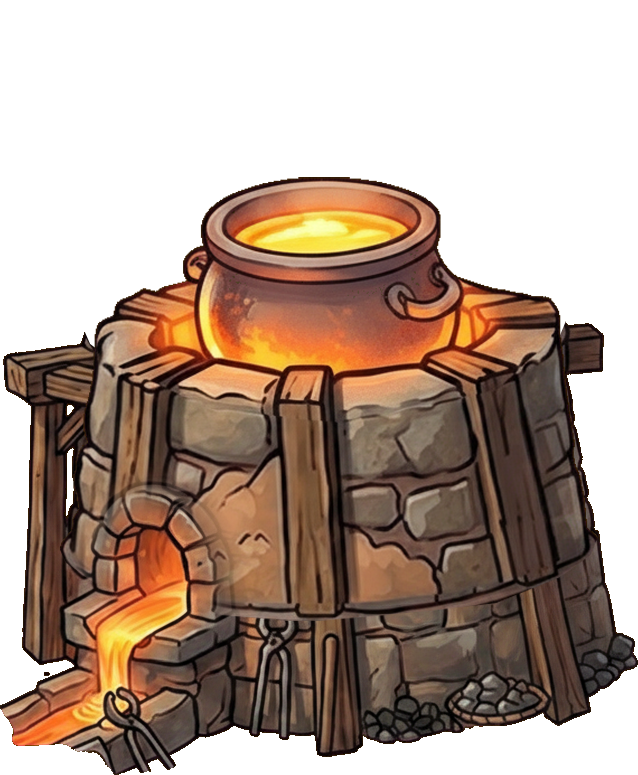
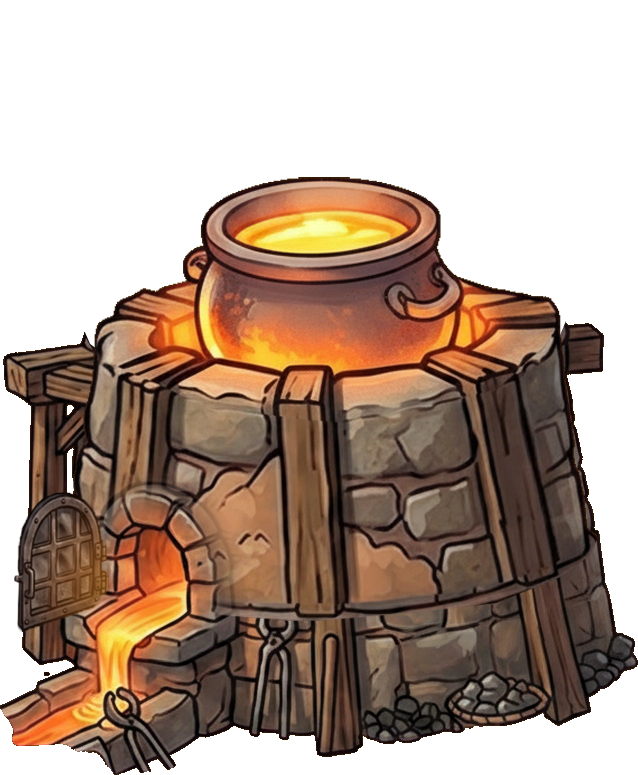
R34: the smelter's lit states (crown and gate layers over the new furnace)
The new anchor_furnace is the lit furnace; three layers on its canvas lie
over it. Off until the first pump of the bellows, the crown fades out on
the first pump, the gate glows on a trait, all clear when the gate is
tapped, off again with the metal on the anvil. The old heat glow on the
gate is no longer driven. FTUE test 830 -> 844.

Changed region(s): [[0.0, 0.6194, 0.1787, 0.8361]]

diff --git a/Swordforge_looptest_landscape.html b/Swordforge_looptest_landscape.html
@@ -294,6 +294,8 @@ body { font-family: Arial, sans-serif; background: #2b2b2b; min-height: 100vh; d
 /* station image sizes (arranged per reference) */
 .mortar { width: 100%; }                 /* fills its %-sized station wrapper (size set by LAYOUT) */
 .furnace { width: 100%; display: block; }/* smelter fills its station; new anchor-cut smelter (crossed A-frame bracing, centre-left arch, flared rim) is already anchor-oriented — no flip */
+.station img.furnace-ov { position: absolute; left: 0; top: 0; width: 100%; z-index: 1; filter: none; }   /* R34: on the furnace's own canvas, 1:1; no shadow of their own */
+#fo-gateOn { opacity: 0; }
 #frame.landscape #stSmelt { z-index: 3; }   /* r12: furnace+bellows above the wheel (stMortar) so the bellows ring handle at the back-right isn't occluded (Opus audit fix) */
 /* r24: the separate .cauldron overlay (assets/forge/anchor_cauldron.png) was removed from the scene.
    It had been display:none since r10, when the molten pot was baked into the re-cut anchor_furnace.png,
@@ -2338,7 +2340,7 @@ body { font-family: Arial, sans-serif; background: #2b2b2b; min-height: 100vh; d
         <div class="station" id="stSmelt">
             <span class="badge" style="left:auto; right:-9px;">3</span>
             <div id="ladle"><img id="ladleBase" src="assets/forge/ladle_base.webp" alt=""><img id="ladleHead" src="assets/forge/ladle_head.webp" alt="Ladle"></div><!-- s4: tier alignment -->
-            <img class="furnace" src="assets/forge/anchor_furnace.webp" alt="Smelter">
+            <img class="furnace" src="assets/forge/anchor_furnace.webp" alt="Smelter"><img class="furnace-ov" id="fo-top" src="assets/forge/anchor_furnace_top_off.webp" alt=""><img class="furnace-ov" id="fo-gateOff" src="assets/forge/anchor_furnace_gate_off.webp" alt=""><img class="furnace-ov" id="fo-gateOn" src="assets/forge/anchor_furnace_gate_on.webp" alt=""><!-- R34: the lit states -->
             <img id="furnaceSmoke" src="assets/forge/smoke.webp" alt=""><!-- r38: vents from the crucible, only while bellowing -->
             <div class="furnaceGlow" id="furnaceGlow"></div>
             <img class="bellowtop" id="bellowtop" src="assets/forge/anchor_bellows.webp" alt="Bellows">
@@ -6086,7 +6088,7 @@ function hidePreviewPaths(){ previewEl.style.display='none'; previewSolidEl.styl
 function drawPrepPreview(){ if(!prep){ hidePreviewPaths(); if(segs.length) moveX(); else xmark.style.display='none'; return; } drawSegmentPreview(prep.ore, 0.5+0.5*prep.grind); }
 
 // --- orb visuals + placement (the #orb element shows the prep ore OR the extracted hot melt) ---
-function updateGauges(){ updateHpPill(); const h=melt?melt.heat:0; const gh=document.getElementById('g-heat'); if(gh) gh.style.width=h+'%'; const fg=document.getElementById('furnaceGlow'); if(fg) fg.style.opacity=(h/100*0.9).toFixed(2); }   // furnace mouth glows brighter as it heats (bellows feedback)
+function updateGauges(){ updateHpPill(); const h=melt?melt.heat:0; const gh=document.getElementById('g-heat'); if(gh) gh.style.width=h+'%'; }   // R34: #furnaceGlow is no longer driven - the furnace art's own lit states show the heat (furnaceArtSync)
 function updateOrbLook(){ if(prep){ orbEl.classList.remove('hot'); oreImgEl.style.opacity=1-prep.grind; sphereEl.style.opacity=prep.grind; } else if(melt&&(melt.stage==='hot'||(melt.stage==='onAnvil' && melt.heat>0))){ orbEl.classList.add('hot'); oreImgEl.style.opacity=0; sphereEl.style.opacity=1; } else if(melt&&melt.stage==='onAnvil'){ orbEl.classList.remove('hot'); oreImgEl.style.opacity=0; sphereEl.style.opacity=1; } }   /* r261 (owner): quenched (no heat) on the anvil = the grey cold sphere */
 function placeOrb(cx,cy){ orbEl.style.left=(cx-orbEl.offsetWidth/2)+'px'; orbEl.style.top=(cy-orbEl.offsetHeight/2)+'px'; }
 function orbCenter(){ const r=orbEl.getBoundingClientRect(), b=benchEl().getBoundingClientRect(); return {x:r.left+r.width/2-b.left, y:r.top+r.height/2-b.top}; }
@@ -6106,7 +6108,7 @@ function overTarget(c,name){
 function canAddOre(){ return !prep && (!melt || melt.stage==='smelting'); }
 
 // --- stage transitions ---
-function ensureMelt(){ const gate=document.getElementById('furnaceGate'); if(!melt){ melt={heat:BASE_HEAT,hp:BLADE_HP_MAX,smeltT0:performance.now(),stage:'smelting',reachedTrait:null,alignDist:null,acquiredTrait:null,tier:null,traits:[]}; gateReady=false; gate.classList.remove('ready'); } else if(melt.stage!=='smelting'){ melt.stage='smelting'; melt.smeltT0=performance.now(); gateReady=false; gate.classList.remove('ready'); } updateGauges(); }
+function ensureMelt(){ const gate=document.getElementById('furnaceGate'); if(!melt){ melt={heat:BASE_HEAT,hp:BLADE_HP_MAX,smeltT0:performance.now(),stage:'smelting',reachedTrait:null,alignDist:null,acquiredTrait:null,tier:null,traits:[]}; gateReady=false; gate.classList.remove('ready'); } else if(melt.stage!=='smelting'){ melt.stage='smelting'; melt.lit=false; melt.smeltT0=performance.now(); gateReady=false; gate.classList.remove('ready'); } updateGauges(); }
 /* r101: the ore leaves the shelf HERE, not at the smelter, so a shelf still counting it was just wrong.
    (r101 also had nothing put it back; since R21 dropping it on the inventory does, unprepOre.) */
 function startPrep(oreId){ if(!oreLeft(oreId)) return; if(ftueGrindBlock()) return;   /* r199 */ if(ftueFirstSpent(oreId)) return;   /* r201: capped, silently */
@@ -6170,6 +6172,17 @@ function addOreDirect(oreId){ if(!oreLeft(oreId)) return;
     if(ftueFirstCap(oreId)) return;   /* r199 */
     ensureMelt(); spendOre(oreId); addSegment(oreId,0); orbEl.style.display='none'; ftueCheckMix(); setTimeout(tutTc2RawCheck, 0);   /* r199. v3: TC2's raw ores */ if(ftueOreCap(oreId)!=null && INV_TAB===0) buildShelf();   /* r200: spendOre rebuilt it before this ore was in the smelter */
     if(String(_galeStage).indexOf('d2-gale')===0) setTimeout(tutGaleSmelted,0);   /* r125 */ hint('Melting… drag the <b>bellows</b> up and down to move the sword, and <b>tap the gate</b> on a trait. Add more ore to stack the route.'); }
+/* R34 (owner, 2026-10-29): the smelter's lit states. anchor_furnace is the lit furnace (the pour running); three layers on its
+   canvas lie over it: the crown cold (#fo-top), the gate cold (#fo-gateOff), the gate glowing (#fo-gateOn). Off with no metal,
+   in the smelter until the first pump, and with the metal on the anvil; the first pump fades the crown out over litMs; a trait
+   reached lights the gate (over the cold gate, so no fade shows the pour); the gate tapped (the metal out) clears all three */
+const FURNACE_ART={ litMs:1500, fadeMs:400 };
+function furnaceLook(m, ready){ if(!m || m.stage==='onAnvil') return { top:1, gateOff:1, gateOn:0 }; if(m.stage==='hot') return { top:0, gateOff:0, gateOn:0 }; if(ready) return { top:0, gateOff:1, gateOn:1 }; return { top:m.lit ? 0 : 1, gateOff:1, gateOn:0 }; }
+let FURNACE_KEY='';
+function furnaceArtSync(){ const l=furnaceLook(melt, gateReady), k=l.top+','+l.gateOff+','+l.gateOn; if(k===FURNACE_KEY) return; FURNACE_KEY=k;
+    ['top','gateOff','gateOn'].forEach(n=>{ const el=document.getElementById('fo-'+n); if(!el) return;
+        const ms=(n==='top' && !l.top && melt && melt.stage==='smelting') ? FURNACE_ART.litMs : FURNACE_ART.fadeMs;
+        el.style.transition='opacity '+ms+'ms ease-out'; el.style.opacity=l[n]; }); }
 function smGateSync(){ const on=!!(melt && melt.stage==='smelting' && melt.reachedTrait); if(on===gateReady) return;
     gateReady=on; const g=document.getElementById('furnaceGate'); if(g) g.classList.toggle('ready', on); }
 /* smelter version: the gate opens only on a trait; it takes the trait and releases the hot metal (tryAcquire) */
@@ -7756,7 +7769,7 @@ function tick(now){
         /* r83: the gate waits on HEAT, not on a timer. The bellows was the one station a player could
            skip entirely - the smelt used to ready itself after SMELT_TIME whether or not anyone pumped. */
         updateGauges(); }
-    smBladeTick(dt); smLadleTick(dt); smGlide(dt); smGateSync();   /* smelter version: s3 the bellows' travel glides out; the gate glows while the sword is on a trait */
+    smBladeTick(dt); smLadleTick(dt); smGlide(dt); smGateSync(); furnaceArtSync();   /* smelter version: s3 the bellows' travel glides out; the gate glows while the sword is on a trait */
     if(TUT_STAGE==='fire-reheat' && melt && melt.stage==='smelting' && SAY_ON!=='D71') tutFireReheated();   /* r111. R4: after D71 is read */
     if(TUT_STAGE==='fire-mang') tutFireGround();   /* r111. 2026-10-13: a full grind, either ore */
     if(melt && (melt.stage==='hot'||melt.stage==='onAnvil') && melt.heat>0){ melt.heat=Math.max(0, melt.heat-HEAT_DECAY*dt); updateGauges(); }   // heat (=speed) cools once the orb is out of the smelter
@@ -8045,7 +8058,7 @@ function wireBellowGate(){ const bh=document.getElementById('bellowHot'), gate=d
         const h=smHandle(SM_POS, (e.clientY-lastY)/scale()); lastY=e.clientY;
         if(h.moved<=0) return; SM_POS=h.pos; paint();
         if(!melt || melt.stage!=='smelting') return;
-        bellowing=true; if(smoke) smoke.classList.add('on');
+        bellowing=true; melt.lit=true; if(smoke) smoke.classList.add('on');   /* R34: the first pump lights the furnace */
         SM_OWED+=smTravelDt(h.moved);   /* s3: stored; smGlide moves the sword in the frame loop */
         if(idle) clearTimeout(idle); idle=setTimeout(quiet, 160); });   /* the smoke stops when the hand does */
     const end=e=>{ if(live!==e.pointerId) return; live=null; quiet(); SM_POS=0; paint(SMELT.springMs); };   /* s2: springs back closed; the spring moves nothing */

diff --git a/CLAUDE.md b/CLAUDE.md
@@ -43,7 +43,7 @@ Sword Forge is a 2D grid-based blacksmith crafting game. It is a **single, self-
   - `assets/backgrounds/` — scene panels, shop/forge backgrounds (`forge_bg.png` = quench scene; `sharpen_bg.png` = stone-floor scene for the sharpening step)
   - `assets/ui/` — buttons and UI chrome, **and standalone explainer art** (`weak/fine/epic.webp` for the Alignment for Tiers window, `MAP_parts.webp` for the five-parts window, `MAP_parts2.webp` for the basic-vs-elemental window (GC4))
   - `assets/Illustrations/` — full-window story art (`Bram_illustration.webp`; `intro_1_fall` to `intro_4_anvil.webp` = the intro's four pictures, `FTUE.intro`, r302)
-  - `assets/forge/` — forge props (bellow, bucket, pulley; `water_bucket.png` for the quench step; `Metal.png` = ore chunk flung into the bucket when a metal is spent; `grindstone.png` + `grindstone_spin.png` = still/motion frames for the sharpening step, both on the same 1701×1536 canvas so the motion frame overlays the still one 1:1). **Name trap:** `grindstone.*` is the **basement sharpening wheel**; the forge's ore grinding wheel ("the grindstone" in the FTUE, `#stMortar`) is `anchor_grindwheel.webp`. `ladle_base` + `ladle_head` = the smelter version's tier-alignment ladle (s4), placed to `assets/Anchor-images/ladle_placement.png`
+  - `assets/forge/` — forge props (bellow, bucket, pulley; `water_bucket.png` for the quench step; `Metal.png` = ore chunk flung into the bucket when a metal is spent; `grindstone.png` + `grindstone_spin.png` = still/motion frames for the sharpening step, both on the same 1701×1536 canvas so the motion frame overlays the still one 1:1). **Name trap:** `grindstone.*` is the **basement sharpening wheel**; the forge's ore grinding wheel ("the grindstone" in the FTUE, `#stMortar`) is `anchor_grindwheel.webp`. `anchor_furnace` = the lit smelter (the pour running), with `anchor_furnace_top_off` / `_gate_off` / `_gate_on` = its lit-state layers on the same 638x775 canvas (R34, `furnaceLook`). `ladle_base` + `ladle_head` = the smelter version's tier-alignment ladle (s4), placed to `assets/Anchor-images/ladle_placement.png`
   - `assets/sword-parts/blades|grips|guards|pommels/` — Design Desk part images (base `balanced_*` set + trait skins `flame_*`, `swift_*`, `gale_*`, `ice_*`, `water_*`). Each `.png` source has a `.webp` beside it that the game loads (512 wide, quality 0.86; converted in the browser and saved through the dev server's `/__save`, as `tooling/asset-diet/convert.html` does). `DD_ALIAS` maps a part id with no art yet onto an existing image; since r211 it is **empty** (all fire and gale parts landed). `DD_BONUS.balanced` (Garric's gift) holds grips 5-6, guards 5-6, pommels 5-6
   - `assets/Decor/` (capital D, and paths are case-sensitive on Pages) - decor art; `Banner.webp` is the shop banner (`FTUE.decor.banner.img`), cropped to its visible art
   - `assets/sword-parts/overlays/` — quality overlays layered over the forged sword (`crack.png` = Weak, `sparkle.png` = Epic)
@@ -58,7 +58,7 @@ Sword Forge is a 2D grid-based blacksmith crafting game. It is a **single, self-
 
 - **Screenshots work, but flakily.** The continuous ember/`requestAnimationFrame` loop can keep the page from going idle, and a capture fails outright while the app window is minimised or hidden. Retry once on timeout; if it fails twice, fall back to `read_page`/`javascript_tool` measurements rather than burning turns.
 - Verify with the Claude Preview tools via `.claude/launch.json` (`preview_start`, config name `sword-forge` → Node static server on port **5679** — `.claude/launch.json` is the source of truth; this line said 5678 until 2026-09-23). Exact tool names vary by environment; in the current one they are the `mcp__Claude_Browser__*` set: `javascript_tool` to drive functions directly and read `getBoundingClientRect`/computed styles/canvas pixels, `read_console_messages` for errors, `resize_window` for the viewport. Resize to mobile (375px) before measuring layout, since the headless viewport otherwise reports width 0.
-- **Eight test suites run here:** `node tooling/smelter/smelter.test.mjs` (the crafting loop against `specs/2026-10-21-smelter-version-loop.md`, reads `Swordforge_looptest_landscape.html`, GREEN at 71 checks), `node tooling/market/market.test.mjs` (FTUE v3 shared systems: the `MARKET` blueprints, shaped orders, Durable, against `specs/2026-10-07-ftue-v3-rework.md`, GREEN at 54 checks), `node tooling/map/map.test.mjs` (map trait icons open a trait card, `specs/2026-10-06-map-trait-links.md`, GREEN at 17 checks), `node tooling/skills/skills.test.mjs` (the `SKILLS` table and helpers against `specs/2026-10-06-skill-tree-trade-ore.md`, GREEN at 18 checks), `node tooling/hazard/hazard.test.mjs` (`HAZ` and the hazard rules against `specs/2026-10-01-hazard-integrity.md`, GREEN at 37 checks), and `node tooling/ftue/ftue.test.mjs` (the `FTUE` object against its design record, GREEN at 830 checks), `node tooling/hammer/hammer.test.mjs` (`HM_HITS` and the hit-point rules against their record, GREEN at 47 checks) and `node tooling/mobile-fit/fit.test.mjs` (GREEN at 21 cases). An `FTUE` or `HM_HITS` value changes in its design record and its test together, test first.
+- **Eight test suites run here:** `node tooling/smelter/smelter.test.mjs` (the crafting loop against `specs/2026-10-21-smelter-version-loop.md`, reads `Swordforge_looptest_landscape.html`, GREEN at 71 checks), `node tooling/market/market.test.mjs` (FTUE v3 shared systems: the `MARKET` blueprints, shaped orders, Durable, against `specs/2026-10-07-ftue-v3-rework.md`, GREEN at 54 checks), `node tooling/map/map.test.mjs` (map trait icons open a trait card, `specs/2026-10-06-map-trait-links.md`, GREEN at 17 checks), `node tooling/skills/skills.test.mjs` (the `SKILLS` table and helpers against `specs/2026-10-06-skill-tree-trade-ore.md`, GREEN at 18 checks), `node tooling/hazard/hazard.test.mjs` (`HAZ` and the hazard rules against `specs/2026-10-01-hazard-integrity.md`, GREEN at 37 checks), and `node tooling/ftue/ftue.test.mjs` (the `FTUE` object against its design record, GREEN at 844 checks), `node tooling/hammer/hammer.test.mjs` (`HM_HITS` and the hit-point rules against their record, GREEN at 47 checks) and `node tooling/mobile-fit/fit.test.mjs` (GREEN at 21 cases). An `FTUE` or `HM_HITS` value changes in its design record and its test together, test first.
 - **Jump to a part:** the PART 1-6 buttons beside SKIP HAMMER (bottom left, outside the frame), or `ftuePart(n)` in the console, start a new game at the beginning of part n. They build an approximate state (gold, exp and fog are guesses), so they are a test aid, not a save.
 - The preview server can drop between turns (a `navigate` fails or the tab reverts to `file://`) — restart with `preview_start` and re-`navigate`; it returns on the same port.
 - **Drive controls the way a player does, and check what a player can see.** Click through `document.elementFromPoint(x,y).dispatchEvent(...)` rather than `el.click()` — an element's box hit-tests even where its art is transparent, so props routinely cover controls. For "is it on screen", `textContent` is not enough (it reads through `display:none`): also assert `offsetParent !== null`, a non-zero box, and that `elementFromPoint` at its centre returns that element.

diff --git a/HANDOFF.md b/HANDOFF.md
@@ -14,7 +14,7 @@ continuation prompt printed at close time.
   (reference only). `?freeplay` starts free play instead of the tutorial (a test aid).
 - **The tutorial is reworked to it (R0-R9, branch `sword-forge/ftue-smelter-rework`).** Plan, the owner's decisions,
   every line and code change, and the build log: **`specs/2026-10-23-ftue-smelter-rework-plan.md`**. 200 dialogue keys
-  (D5, D7, D39, D40 removed; ~27 lines reworded). The FTUE test is GREEN at 830, the smelter test at 71 (R11: TC5's swift metal is allowed at the gate; R12: the trait window for a first discovery only, no craft-book toast in Part 1; R13: the dragon's blueprints cannot be bought by the player; R14: no refill after a scripted sale; R15: the drag gestures on the ladle and the bellows; R16: D13 on a dark minigame; R17: the crafted window rearranged; R18: a stored metal lands on the anvil, its heat kept; R19: the waiting customer's guide only at an empty counter, when the blueprints can be bought; R20: Day 2's way to the counter after D92; R21: an ore back from the grindstone, no ores during D72/D72a; R22: no X on the dragon's lines at the counter and in the cave; R23: Day 3, no gathering before the pickaxe upgrade; R24: the rotated iron and manganese paths - Balanced and Fire moved, the fire run is manganese then a ground iron, D70 when Fire comes into view, new D70a; R25: the craft frame - wood, inkpot, craft book, pulley ring; R26: the rail - skill tree in the day tile's place, gear bottom right, diary book and quest basket, the day on a bedroom calendar, MARKET on the counter; R27: 12 boxes above the quest basket, the fifth row fading behind it, D42 names the inkpot; R28: the ring glows and shows a down arrow for D42, and glows again to close the frame after recording; R29: the ladle appears only when TC4 arrives; R30: the counter - the shelf with the craft book, the swinging bell top right, the scroll ledger, the rotary market; R31: the craft frame's ring follows the finger, like the rotary; R32: the dragon's lines type in word by word, a tap finishes them; R33: the inventory tabs appear as they are first used).
+  (D5, D7, D39, D40 removed; ~27 lines reworded). The FTUE test is GREEN at 844, the smelter test at 71 (R11: TC5's swift metal is allowed at the gate; R12: the trait window for a first discovery only, no craft-book toast in Part 1; R13: the dragon's blueprints cannot be bought by the player; R14: no refill after a scripted sale; R15: the drag gestures on the ladle and the bellows; R16: D13 on a dark minigame; R17: the crafted window rearranged; R18: a stored metal lands on the anvil, its heat kept; R19: the waiting customer's guide only at an empty counter, when the blueprints can be bought; R20: Day 2's way to the counter after D92; R21: an ore back from the grindstone, no ores during D72/D72a; R22: no X on the dragon's lines at the counter and in the cave; R23: Day 3, no gathering before the pickaxe upgrade; R24: the rotated iron and manganese paths - Balanced and Fire moved, the fire run is manganese then a ground iron, D70 when Fire comes into view, new D70a; R25: the craft frame - wood, inkpot, craft book, pulley ring; R26: the rail - skill tree in the day tile's place, gear bottom right, diary book and quest basket, the day on a bedroom calendar, MARKET on the counter; R27: 12 boxes above the quest basket, the fifth row fading behind it, D42 names the inkpot; R28: the ring glows and shows a down arrow for D42, and glows again to close the frame after recording; R29: the ladle appears only when TC4 arrives; R30: the counter - the shelf with the craft book, the swinging bell top right, the scroll ledger, the rotary market; R31: the craft frame's ring follows the finger, like the rotary; R32: the dragon's lines type in word by word, a tap finishes them; R33: the inventory tabs appear as they are first used).
 - **Verified:** each part's crafts in the browser (staged per part), and Part 1 played continuously from a new game
   through GC1's sale. **Not yet:** a continuous play of Parts 2-6, and any play on a phone (the bellows, the ladle and the
   blade by finger). Fixed on the way: lines said as the trait window opens (D42, D76, D99, D106) had been closed at once
@@ -257,7 +257,7 @@ Then `preview_start` (name `sword-forge`, port **5679**; `autoPort` is on, so us
 `http://localhost:5679/Swordforge_looptest_landscape.html`. Expect 200 dialogue keys, `lastLine()`
 `"D140"`, and `ftuePart(3)` to land at TC3's bell (`TUT_STAGE` `bell2`).
 
-**Baselines, not regressions:** the FTUE test prints GREEN at 830 checks; the smelter test GREEN at 71; the market test GREEN at 54; the hammer test GREEN at 47; the hazard test GREEN at 37; the skills test GREEN at 18; the map test GREEN at 17;
+**Baselines, not regressions:** the FTUE test prints GREEN at 844 checks; the smelter test GREEN at 71; the market test GREEN at 54; the hammer test GREEN at 47; the hazard test GREEN at 37; the skills test GREEN at 18; the map test GREEN at 17;
 the mobile-fit test GREEN at **21** cases (its summary line can print only "GREEN /" in some shells);
 the living-docs audit prints **10 `ORPHAN` lines** for `docs/wiki/` and exits 0.
 

diff --git a/specs/2026-10-28-forge-screen-new-look.md b/specs/2026-10-28-forge-screen-new-look.md
@@ -164,3 +164,34 @@ the banner. check is there is any error in my instructions as well."
   tutorial is over. Older saves without the marks: swords from part 2 (or Bram's sale), metal from part 5.
 - **Look:** a tab not there yet keeps its slot (the four stay in place, nothing shifts when one appears) and pops in when it
   appears (`tab-new`). Asking for a tab that is not there (a screen's default, `invTab`) gives the ores tab.
+
+## R34: the smelter's lit states (2026-10-29)
+
+Owner: "I have updated the furnace image. Also added the off state of the top and gate. I want these images to be overlaid
+on the furnace. So, initially, the furnace will look off, no glow. As we start bellowing, the furnace_top_off goes from 100
+to 0 %opacity. when we arrive at the trait, the furnace_gate_on is visible, showing the gate glowing. when we click on the
+gate, we see the updated furnace image, all other images at 0. the metal orb shows as it is now. when we transfer the metal
+to anvil the metal shows the off state again." ("the metal shows the off state" read as the furnace.)
+
+- **Art:** `assets/forge/anchor_furnace` is the lit furnace (the pot glowing, the pour running from the gate). Three layers
+  on the same 638x775 canvas lie over it 1:1 (`.furnace-ov`, left 0, top 0, the furnace's width, no shadow of their own):
+  `anchor_furnace_top_off` (the crown cold), `anchor_furnace_gate_off` (the gate cold), `anchor_furnace_gate_on` (the gate
+  glowing). All four load as webp, 416x505, quality 0.86.
+- **The states (`furnaceLook(melt, gateReady)`, opacity of top / gate off / gate on):**
+
+  | State | When | top | gate off | gate on |
+  |---|---|---|---|---|
+  | off | no metal, or the metal on the anvil | 1 | 1 | 0 |
+  | lit | in the smelter, the bellows pumped (`melt.lit`) | 0 | 1 | 0 |
+  | gate | in the smelter, the sword on a trait (`gateReady`) | 0 | 1 | 1 |
+  | open | the gate tapped, the metal out and hot (`stage 'hot'`) | 0 | 0 | 0 |
+
+  In the smelter and not pumped yet, it is off. The gate glow lies over the cold gate (the cold gate stays at 1 under it),
+  so the fade never shows the pour through a half-faded gate. The sword leaving the trait puts the gate back to cold.
+- **Timing (`FURNACE_ART`):** the crown goes out over `litMs` 1500 ms on the first pump (a fade, set off by the first
+  pump: the owner's "as we start bellowing"); every other change fades in `fadeMs` 400 ms.
+- **Back to off:** the metal on the anvil (`onAnvil`), stored, or the run cleared. Put back in the smelter, the metal
+  starts cold again (`melt.lit` false) until the bellows are pumped.
+- **The old heat glow retired:** `#furnaceGlow` (an orange radial glow on the gate, driven by the heat from the moment an
+  ore went in) is no longer driven, since it would glow while the furnace looks off. The element stays: the tutorial's
+  arrow aims at it. The gate's `ready` ring (the pulsing outline on the gate's tap box) is unchanged.

diff --git a/specs/2026-10-23-ftue-smelter-rework-plan.md b/specs/2026-10-23-ftue-smelter-rework-plan.md
@@ -570,3 +570,12 @@ yours and come on top.
   (R33). FTUE test 826 -> 830 (failing on the previous build first). Checked in the browser (1280x720, each tab hit-tested):
   a new game - ores only, the counter too; the first sword - swords pops in, and stays after it is sold; the first store -
   metal; the banner reward - decor; PART 2 - ores and swords; PART 5 - and metal; free play - all four; no console errors.
+- **R34 (2026-10-29, owner): the smelter's lit states.** The new `anchor_furnace` is the lit furnace (the pour running);
+  three layers on its canvas lie over it: the crown cold, the gate cold, the gate glowing. Off with no metal, in the smelter
+  until the first pump, and with the metal on the anvil; the first pump fades the crown out (1500 ms); a trait reached lights
+  the gate; the gate tapped (the metal out) clears all three. The old heat glow on the gate (`#furnaceGlow`) is no longer
+  driven. All four images as webp, 416x505. Record: specs/2026-10-28-forge-screen-new-look.md (R34). FTUE test 830 -> 844
+  (failing on the previous build first). Checked in the browser (1280x720, free play): each layer 1:1 on the furnace;
+  start 1/1/0; ore in 1/1/0; the bellows pumped (through its own handler) 0/1/0 with a 1500 ms fade; on a trait 0/1/1;
+  the gate tapped (hit-tested) 0/0/0 with the orb at the gate; on the anvil 1/1/0; put back in the smelter 1/1/0 until
+  pumped; no console errors.
